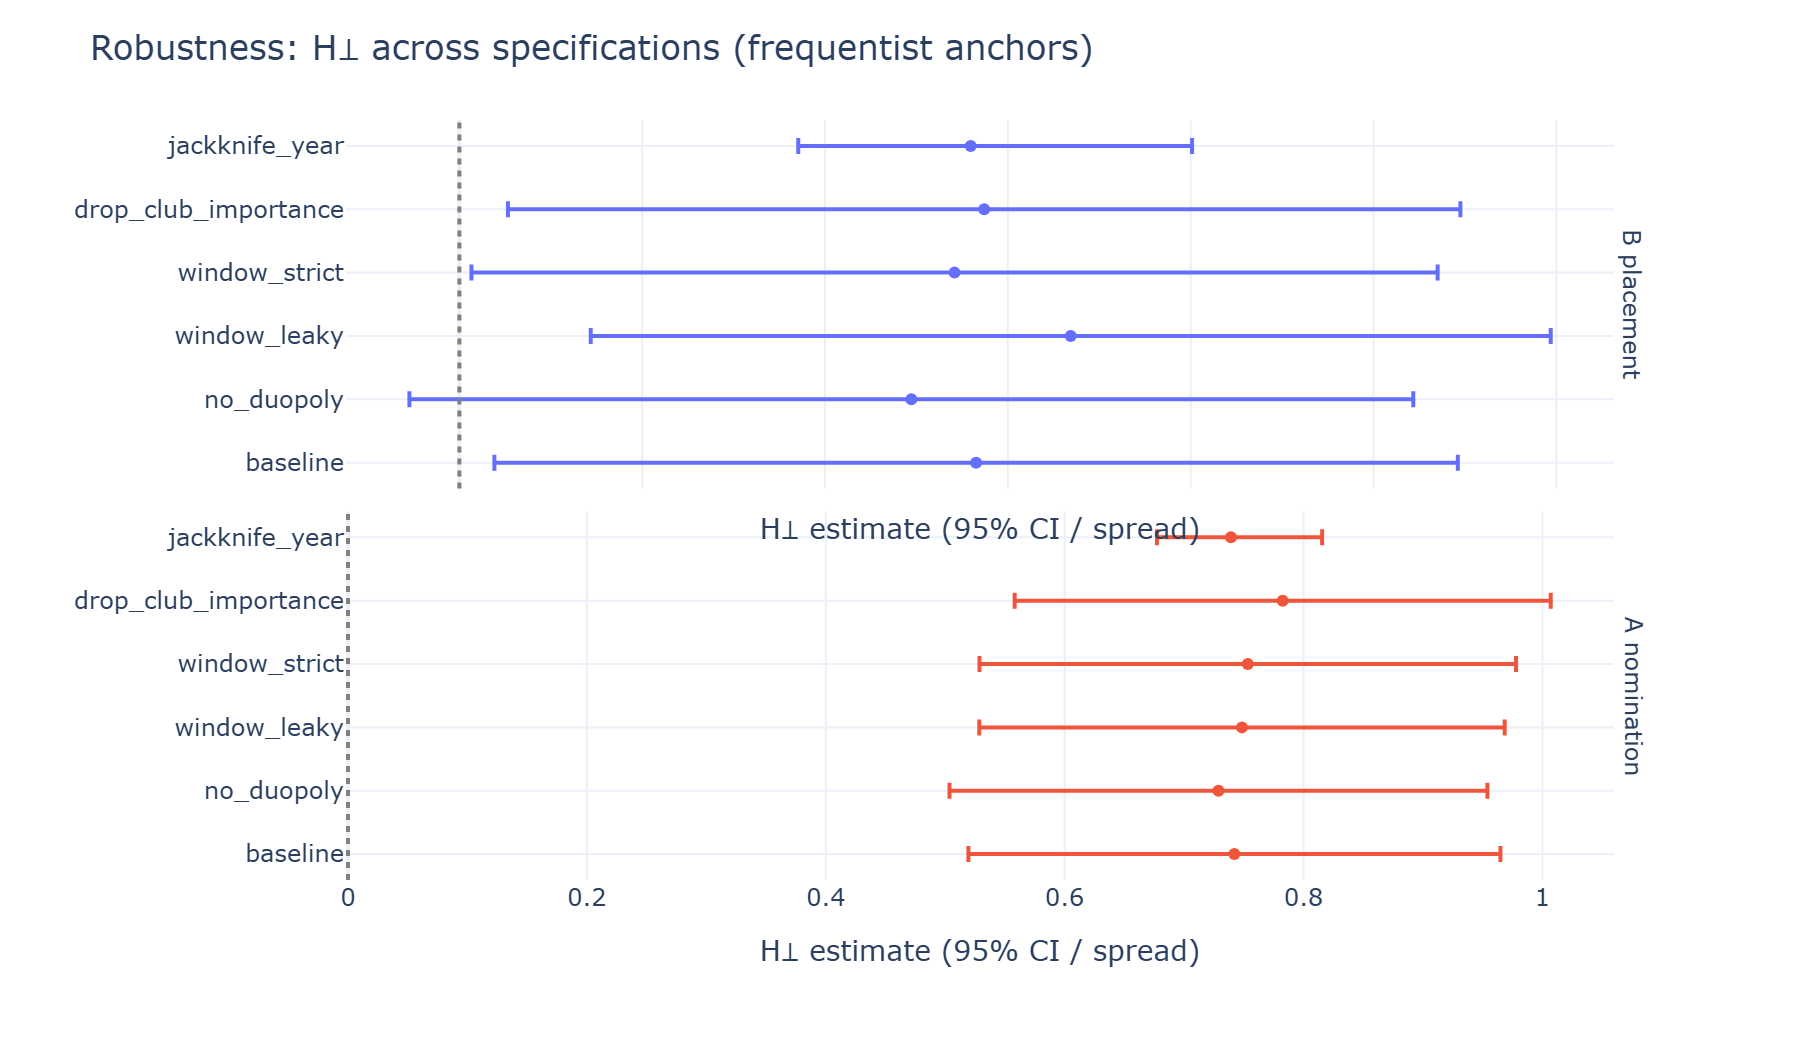
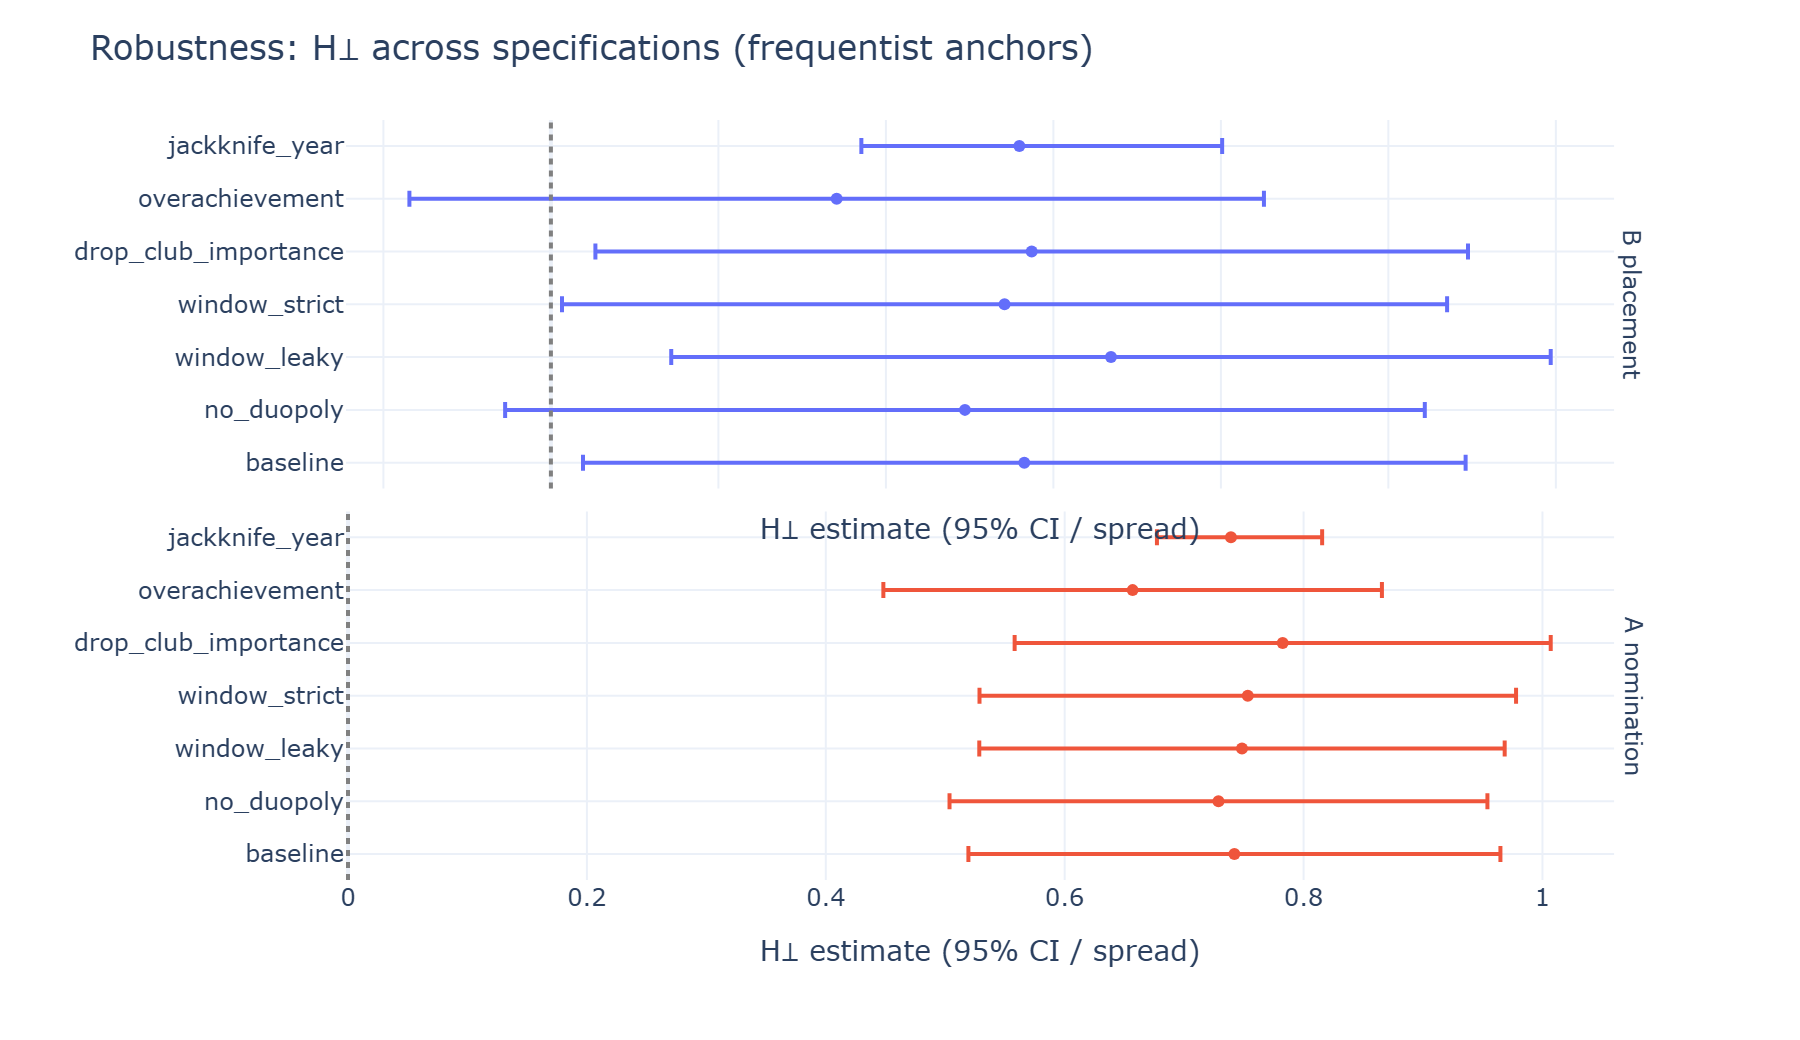
Tournament overachievement: a de-fame robustness control
Adds a control for how far a player's nation finished beyond its
pre-tournament seed (Croatia 2018, Morocco 2022, Algeria 2019 = +2;
favourites who won = 0). Tests whether the narrative residual is just
unmodelled surprise team success.

- New curated `expected` column in tournament_results.csv (FIFA
  ranking/seeding bucket). overachievement = max(0, result - expected).
  team_success._tournament_overachievement (pure, tested) + pool-wide in
  pool.build (158 players nonzero).
- Merged into hperp._candidate_frame 0-filled but NOT in _REGRESSORS:
  baseline H-perp / leaderboard / headline byte-identical (model_features
  delta = 0; headline still +0.696 / +0.145).
- New robustness._overachievement_hperp + `overachievement` panel/caterpillar
  spec; report.overachievement_case for the Modric delta.

Result: Gate A +0.742 -> +0.657 [+0.45,+0.87] (survives), Gate B +0.141 ->
+0.085 (fades, as expected for the fragile placement effect), Modric 2018
+1.357 -> +0.310 (most of the top residual was Croatia's run). Sensitivity
only - the curated pre-event seed is softer than the absolute results.

Surfaced in report (robustness + Modric case) + site (robustness para +
Modric verdict + caterpillar row); fixed a stale "breakout newcomers" line.
ruff + 110 tests green.

diff --git a/site/index.html b/site/index.html
@@ -46,7 +46,7 @@
 </script>
 
 <link rel="stylesheet" href="fonts/fonts.css" />
-<link rel="stylesheet" href="styles.css?v=20260624f" />
+<link rel="stylesheet" href="styles.css?v=20260625a" />
 </head>
 <body>
 <a class="skip-link" href="#main">Skip to content</a>
@@ -212,9 +212,10 @@
       <div>
         <p class="mono kicker gold">Robustness</p>
         <h2 class="display h2-sm" style="margin-bottom:22px">Does the result hold up?</h2>
-        <p class="prose-p">With seven years of data, a single model settles little, so the result was re-estimated dozens of ways — dropping Messi and Ronaldo, dropping breakout newcomers, leaving out each year in turn.</p>
+        <p class="prose-p">With seven years of data, a single model settles little, so the result was re-estimated dozens of ways — dropping Messi and Ronaldo, shifting the attention window, leaving out each year in turn.</p>
         <p class="prose-p">The <strong class="gold">getting-noticed</strong> effect stays in the same place across every cut. The <strong class="ink">finishing-higher</strong> effect is smaller and leans partly on the two superstars, so it is reported cautiously.</p>
         <p class="prose-p">It also holds once we account for <em class="ink">how central a player was to his club</em> — his share of the team's minutes and attacking output — so a midfield anchor like Rodri being indispensable is not what the Hype Score is mistaking for buzz.</p>
+        <p class="prose-p">It even holds once we account for <em class="ink">overachievement</em> — how far a player's nation finished beyond its pre-tournament odds. A fairy-tale run explains much of a single case (Croatia 2018 drove most of Modrić's gap), but across the field the getting-noticed effect stays clearly positive — the bias is not just unmodelled surprise.</p>
         <p class="prose-p">And it reproduces on a <em class="ink">different attention signal</em>: rebuilding the score from global news coverage (not Wikipedia) leaves the getting-noticed effect clearly positive — so the result is not an artifact of one data source.</p>
       </div>
       <div class="card2" id="robust-card" role="img" aria-label="The Hype Score effect re-estimated across many specifications: at the nomination gate the estimates cluster tightly, far from zero; at the placement gate they sit low and graze zero."></div>
@@ -260,7 +261,7 @@
 </div>
 
 <script src="vendor/d3.v7.min.js"></script>
-<script src="data.js?v=20260624f"></script>
-<script src="app.js?v=20260624f"></script>
+<script src="data.js?v=20260625a"></script>
+<script src="app.js?v=20260625a"></script>
 </body>
 </html>

diff --git a/site/app.js b/site/app.js
@@ -79,7 +79,7 @@
   // Only `year` and `verdict` are read (see VERDICT build below); the scoreboard's numbers
   // come from data.js (per_year). Keep these two keys in sync with that payload.
   const YEARS = [
-    { year: "2018", verdict: "The highest narrative residual of any winner in the sample — far more attention than his measured merit (20th in the field) explained, while Messi had the best season. Modrić played the deep-lying role the merit index reads least well, so part of that gap may be value the box score misses — an independent Opta rating places him above the field's median; even so, it is the case the usual complaint describes." },
+    { year: "2018", verdict: "The highest narrative residual of any winner in the sample — far more attention than his measured merit (20th in the field) explained, while Messi had the best season. Two things temper it: Modrić played the deep-lying role the merit index reads least well (an independent Opta rating places him above the field's median), and Croatia's improbable run to the final drove most of the rest — control for that overachievement and his gap shrinks dramatically. Even so, it is the case the usual complaint describes." },
     { year: "2019", verdict: "Little inflation this year: even the largest residual, Van Dijk's modest {HYPE}, sat well behind the field's best seasons, and Messi won among the very best on production." },
     { year: "2021", verdict: "Lewandowski had the best season in the field, a record-breaking scorer with almost no extra buzz, and finished second. The narrative outweighed the goals." },
     { year: "2022", verdict: "Benzema took the vote on a Champions League run, while Mbappé again out-produced everyone. A deserved win, helped by the European campaign." },
@@ -269,7 +269,8 @@
     const host = el("robust-card"); if (!host) return;
     const SPECS = [["baseline", "main model"], ["no_duopoly", "drop Messi & Ronaldo"],
       ["window_leaky", "window past ceremony"], ["window_strict", "window before ceremony"],
-      ["drop_club_importance", "ignore club importance"], ["jackknife_year", "leave a year out"]];
+      ["drop_club_importance", "ignore club importance"],
+      ["overachievement", "control for overachievement"], ["jackknife_year", "leave a year out"]];
     const by = {}; (D.robustness || []).forEach(r => { by[`${r.gate}|${r.spec}`] = r; });
     const pos = v => Math.min(100, Math.max(0, v) * POSX);  // 0-edge clamp + no track overflow
     const rows = (gate, col) => SPECS.map(([spec, lab]) => {

diff --git a/src/bdor/features/team_success.py b/src/bdor/features/team_success.py
@@ -78,9 +78,23 @@ def _tournament_result(
     return tourn.get((award_year, nation), 0)
 
 
+def _tournament_overachievement(
+    nation: str | None, award_year: int, overach: dict[tuple[int, str], int]
+) -> int:
+    """How far a nation's tournament finish beat its pre-tournament expectation (>=0).
+
+    `overach` maps (award_year, nation) -> max(0, result - expected), where `expected` is a curated
+    pre-tournament seed (FIFA ranking / consensus favourite, see tournament_results.csv). 0 when the
+    nation is unknown or didn't record a deep run. Croatia 2018 = +2; favourites who won = 0. Pure.
+    """
+    if nation is None:
+        return 0
+    return overach.get((award_year, nation), 0)
+
+
 # --- reference loaders ------------------------------------------------------
 
-def _load_references() -> tuple[dict, set, dict, dict]:
+def _load_references() -> tuple[dict, set, dict, dict, dict]:
     cl = pd.read_csv(REFERENCE_DIR / "cl_results.csv", dtype={"season": str})
     cl_lookup = {(r.season, r.club): int(r.cl_round) for r in cl.itertuples()}
 
@@ -91,10 +105,13 @@ def _load_references() -> tuple[dict, set, dict, dict]:
     tourn = (
         tour.groupby(["award_year", "nation"])["result"].max().to_dict()
     )  # max result if a nation features in multiple tournaments that year
+    # Overachievement = finish beyond the pre-tournament seed (>=0); 0 when on/below expectation.
+    tour["overach"] = (tour["result"] - tour["expected"]).clip(lower=0)
+    overach = tour.groupby(["award_year", "nation"])["overach"].max().to_dict()
 
     nat = pd.read_csv(REFERENCE_DIR / "player_nation.csv")
     nation = dict(zip(nat["player"], nat["nation"], strict=True))
-    return cl_lookup, champs, tourn, nation
+    return cl_lookup, champs, tourn, nation, overach
 
 
 # --- build ------------------------------------------------------------------
@@ -113,7 +130,7 @@ def _judged_season_clubs() -> dict[tuple[str, str], set[str]]:
 
 def _build_team_success() -> pd.DataFrame:
     aw = awards.pull()
-    cl_lookup, champs, tourn, nation = _load_references()
+    cl_lookup, champs, tourn, nation, overach = _load_references()
     us_clubs = _judged_season_clubs()
 
     rows: list[dict] = []
@@ -137,6 +154,9 @@ def _build_team_success() -> pd.DataFrame:
                 "won_cl": cl_round == 5,
                 "won_league": _won_league(clubs, seasons, champs),
                 "tournament_result": _tournament_result(nat, award_year, tourn),
+                "tournament_overachievement": _tournament_overachievement(
+                    nat, award_year, overach
+                ),
             }
         )
     return pd.DataFrame(rows).sort_values(["award_year", "player"]).reset_index(drop=True)

diff --git a/src/bdor/report.py b/src/bdor/report.py
@@ -167,6 +167,26 @@ def _prior_extent(t: pd.DataFrame) -> dict:
     return {"a": _g("A_nomination"), "b": _g("B_placement")}
 
 
+def overachievement_case(name: str = "Modri", year: int = 2018) -> dict | None:
+    """Baseline vs overachievement-controlled H⊥ for one case (the Modrić illustration).
+
+    Refits H⊥ adding the tournament-overachievement de-fame control and reports how far the player's
+    residual falls — the vivid version of "how much of the narrative was the improbable run itself."
+    """
+    from .features import hperp  # noqa: PLC0415
+    from .models import robustness  # noqa: PLC0415
+
+    def _h(df: pd.DataFrame) -> float | None:
+        r = df[df["player"].str.contains(name) & (df["award_year"] == year)]
+        return float(r["h_perp_pv"].iloc[0]) if len(r) else None
+
+    base = _h(hperp.build())
+    ctrl = _h(hperp.hperp_frame(regressors=robustness._OVERACH_REGRESSORS))
+    if base is None or ctrl is None:
+        return None
+    return {"baseline": base, "controlled": ctrl}
+
+
 def robustness_extras() -> dict:
     """Bootstrap + Heckman + strict-window rows, for the prose robustness notes."""
     p = load_panel()
@@ -189,6 +209,9 @@ def robustness_extras() -> dict:
         # drop_club_importance = H⊥ refit WITHOUT the v3 team-centrality control (baseline has it).
         "noclub_a": _get("A_nomination", "drop_club_importance"),
         "noclub_b": _get("B_placement", "drop_club_importance"),
+        # overachievement = H⊥ refit ADDING a control for finishing beyond the pre-tournament seed.
+        "overach_a": _get("A_nomination", "overachievement"),
+        "overach_b": _get("B_placement", "overachievement"),
         # proxy_gdelt = H⊥ rebuilt on GDELT news volume (independent of pageviews); finisher-fit.
         "gdelt_a": _get("A_nomination", "proxy_gdelt"),
         "gdelt_b": _get("B_placement", "proxy_gdelt"),
@@ -227,7 +250,7 @@ def fig_two_gate(stats: dict | None = None):
 # reported as prose robustness notes instead (see `robustness_extras`).
 _CATERPILLAR_SPECS = [
     "baseline", "no_duopoly",
-    "window_leaky", "window_strict", "drop_club_importance", "jackknife_year",
+    "window_leaky", "window_strict", "drop_club_importance", "overachievement", "jackknife_year",
 ]
 
 

diff --git a/src/bdor/models/robustness.py b/src/bdor/models/robustness.py
@@ -10,7 +10,9 @@ cell, and already shown to track the Bayesian posteriors (Stage B +0.192 Bayes v
 posteriors stay the headline; this shows the point estimate is stable.
 
 Specs (per gate): baseline · no_duopoly · window_leaky · window_strict · drop_club_importance ·
-jackknife_year · (proxy_gdelt, when the GDELT pull has completed).
+overachievement · jackknife_year · (proxy_gdelt, when the GDELT pull has completed).
+`overachievement` refits H⊥ with an added control for a nation finishing beyond its pre-tournament
+seed (Croatia 2018) — testing whether the residual is just unmodelled surprise team success.
 `window_leaky` recomputes H⊥ with the hype window stretched to the ceremony date (the leakage we
 designed against) — H⊥ should INFLATE, demonstrating that the shortlist cut matters.
 `drop_club_importance` refits H⊥ without the v3 team-centrality control, showing the effect is
@@ -102,6 +104,23 @@ def _drop_club_importance_hperp() -> pd.DataFrame:
     neither manufactures nor erases the result.
     """
     return hperp.hperp_frame(regressors=_PRE_V3_REGRESSORS)
+
+
+# --- tournament-overachievement control (de-fame sensitivity) ---------------
+
+_OVERACH_REGRESSORS = [*hperp._REGRESSORS, "tournament_overachievement"]
+
+
+def _overachievement_hperp() -> pd.DataFrame:
+    """Refit H⊥ ADDING a tournament-overachievement control (not in the baseline regressor set).
+
+    Asks: is the narrative residual just unmodelled *surprise* team success? A nation finishing
+    beyond its pre-tournament seed (Croatia 2018) draws huge attention the absolute team-success
+    terms miss. De-faming against it tests whether H⊥ survives; if so, the effect isn't merely
+    overachievement. The control is finisher-light (0 for the many pool members with no deep run),
+    so Gate A should barely move, while contested tournament cases (Modrić) shrink.
+    """
+    return hperp.hperp_frame(regressors=_OVERACH_REGRESSORS)
 
 
 # --- one cell = the H⊥ coefficient from a frequentist fit -------------------
@@ -313,6 +332,7 @@ def _build_panel() -> pd.DataFrame:
     leaky = _leaky_hperp()
     strict = _strict_hperp()
     no_ci = _drop_club_importance_hperp()
+    overach = _overachievement_hperp()
 
     # NB: a `drop_low_baseline` spec was removed — `pv_low_baseline` (baseline NaN or < threshold)
     # is False for every row in the candidate/finisher pools (all high-fame players), so the filter
@@ -323,6 +343,7 @@ def _build_panel() -> pd.DataFrame:
         "window_leaky": placement._prep(_model_features_from_hp(leaky)),
         "window_strict": placement._prep(_model_features_from_hp(strict)),
         "drop_club_importance": placement._prep(_model_features_from_hp(no_ci)),
+        "overachievement": placement._prep(_model_features_from_hp(overach)),
     }
     a_specs = {
         "baseline": ap,
@@ -330,6 +351,7 @@ def _build_panel() -> pd.DataFrame:
         "window_leaky": nomination._prep_hperp(hperp_df=leaky),
         "window_strict": nomination._prep_hperp(hperp_df=strict),
         "drop_club_importance": nomination._prep_hperp(hperp_df=no_ci),
+        "overachievement": nomination._prep_hperp(hperp_df=overach),
     }
 
     # Second attention proxy (GDELT news volume) — only if the pull has completed (else skipped,

diff --git a/src/bdor/features/pool.py b/src/bdor/features/pool.py
@@ -37,7 +37,8 @@ _FEATURE_COLS = [
     "player", "award_year", "position_family",
     "in_production", "in_team_success", "in_tournament",
     "merit_z", "merit_pc1", "merit_pc2", "minutes",
-    "cl_round", "won_cl", "won_league", "nation", "tournament_result", "nominated",
+    "cl_round", "won_cl", "won_league", "nation", "tournament_result",
+    "tournament_overachievement", "nominated",
 ]
 
 
@@ -133,7 +134,7 @@ def _us_award_year(us: pd.DataFrame) -> pd.DataFrame:
 
 def _qualifying_club_seasons() -> set[tuple[str, str]]:
     """(season_code, reference-club) that reached a CL semifinal or won a domestic league."""
-    cl_lookup, champs, _tourn, _nation = team_success._load_references()
+    cl_lookup, champs, _tourn, _nation, _overach = team_success._load_references()
     cl_sf = {key for key, rnd in cl_lookup.items() if rnd >= 3}
     return cl_sf | set(champs)
 
@@ -181,7 +182,7 @@ def _build_pool() -> pd.DataFrame:
     pool = pool.merge(usa.drop(columns=["player"]), on=["player_key", "award_year"], how="left")
 
     # Club-based team-success for EVERY member (team_success.build() is finisher-only).
-    cl_lookup, champs, tourn, _nation = team_success._load_references()
+    cl_lookup, champs, tourn, _nation, overach = team_success._load_references()
 
     def _club_success(row: pd.Series) -> pd.Series:
         seasons = team_success._season_codes(int(row["award_year"]))
@@ -209,6 +210,12 @@ def _build_pool() -> pd.DataFrame:
     pool["nation"] = pool["player_key"].map(nat)
     pool["tournament_result"] = [
         team_success._tournament_result(n if isinstance(n, str) else None, int(ay), tourn)
+        for n, ay in zip(pool["nation"], pool["award_year"], strict=True)
+    ]
+    # Overachievement vs pre-tournament seed (de-fame robustness control; 0 if no/par run).
+    pool["tournament_overachievement"] = [
+        team_success._tournament_overachievement(
+            n if isinstance(n, str) else None, int(ay), overach)
         for n, ay in zip(pool["nation"], pool["award_year"], strict=True)
     ]
 

diff --git a/tests/test_team_success.py b/tests/test_team_success.py
@@ -6,6 +6,7 @@ from bdor.features.team_success import (
     _club_cl_round,
     _norm_clubs,
     _season_codes,
+    _tournament_overachievement,
     _tournament_result,
     _won_league,
 )
@@ -44,3 +45,13 @@ def test_tournament_result_lookup_and_default():
     assert _tournament_result("Croatia", 2018, tourn) == 4
     assert _tournament_result("Brazil", 2018, tourn) == 0     # didn't feature
     assert _tournament_result(None, 2018, tourn) == 0
+
+
+def test_tournament_overachievement_lookup_and_default():
+    # max(0, result - expected): Croatia 2018 overachieved (final from outside the contenders);
+    # France (favourite that won) is on par -> 0; unknown / no-run -> 0.
+    overach = {(2018, "Croatia"): 2, (2018, "France"): 0}
+    assert _tournament_overachievement("Croatia", 2018, overach) == 2
+    assert _tournament_overachievement("France", 2018, overach) == 0   # on par with expectation
+    assert _tournament_overachievement("Brazil", 2018, overach) == 0   # no recorded run
+    assert _tournament_overachievement(None, 2018, overach) == 0

diff --git a/src/bdor/features/hperp.py b/src/bdor/features/hperp.py
@@ -113,7 +113,15 @@ def _candidate_frame(
         club_importance.build()[["player_key", "award_year", "minutes_share", "xg_share"]],
         on=["player_key", "award_year"], how="left",
     )
-    for c in ("minutes_share", "xg_share"):  # 0 = unmeasured (non-top-5), like the merit dims
+    # tournament_overachievement: pool-wide (pool.build derives nation for every member); a de-fame
+    # ROBUSTNESS control only — not in _REGRESSORS, so baseline H⊥ is untouched. 0 = no/par run.
+    base = base.merge(
+        pl[["player_key", "award_year", "tournament_overachievement"]].drop_duplicates(
+            ["player_key", "award_year"]
+        ),
+        on=["player_key", "award_year"], how="left",
+    )
+    for c in ("minutes_share", "xg_share", "tournament_overachievement"):  # 0 = unmeasured
         base[c] = base[c].astype(float).fillna(0.0)
     return base.merge(att.drop(columns=["player"]), on=["player_key", "award_year"], how="inner")
 

diff --git a/docs/decisions-log.md b/docs/decisions-log.md
@@ -672,3 +672,29 @@ co-headline bar (would overstate agreement), so I kept it as a **strengthened po
 the report + site robustness/caveat sections, with the attenuation stated honestly. Pageviews stay the
 primary. Spot-check: GDELT↔pageview Spearman 0.62 (0.58 pool-only), top pool-only players all real —
 disambiguation sound. **No headline change** (pageview baseline Gate A +0.742 / B +0.141 untouched).
+
+### Tournament overachievement as a de-fame robustness control (2026-06-25)
+User asked whether to "weigh" tournaments / reward overachievement (Croatia 2018 carrying to a final as
+non-favourites; Leverkusen-type invincible runs). Chose (with the user): **tournaments only**, as a
+**robustness control**, not baseline and not merit-credit (a team result can't be attributed to one
+player). Implementation mirrors club-importance v3 / `drop_club_importance`:
+- New curated `expected` column in `data/reference/tournament_results.csv` (pre-tournament FIFA
+  ranking/seeding bucket: top favourite 5 … minnow 1). `team_success._load_references` builds an
+  overachievement lookup = max(0, result − expected); `_tournament_overachievement` helper (pure,
+  tested). `pool.build()` computes it pool-wide (nation already known pool-wide via StatsBomb squads);
+  added to `_FEATURE_COLS`.
+- `hperp._candidate_frame` merges `tournament_overachievement` (0-filled), but it is **NOT** in
+  `_REGRESSORS` — baseline H⊥ untouched (verified: model_features Δ = 0). `robustness._overachievement_
+  hperp()` refits with `_REGRESSORS + ["tournament_overachievement"]`; new `overachievement` panel spec
+  (Gate A + B) and caterpillar row; `report.overachievement_case()` exposes the Modrić baseline-vs-
+  controlled delta for the case study.
+- **Result:** Gate A +0.742→+0.657 (survives), Gate B +0.141→+0.085 (fades, as expected for the fragile
+  placement effect), Modrić 2018 +1.357→+0.310. Surfaced in report (robustness sentence + Modrić case)
+  and site (robustness paragraph + Modrić verdict + caterpillar row). Also fixed a stale site sentence
+  ("dropping breakout newcomers" → "shifting the attention window") left from the drop_low_baseline
+  removal.
+**Why sensitivity-only (not baseline):** `expected` is a curated pre-event seed — reproducible from FIFA
+rankings but softer/more subjective than the absolute results, and asymmetric (only positive
+overachievement among deep-run nations). Folding it into the baseline would risk defining away the very
+narrative the study measures. As a stress test it answers the sharp question — "is the nomination bias
+just unmodelled surprise success?" — and the answer is no.

diff --git a/docs/findings.md b/docs/findings.md
@@ -399,3 +399,24 @@ pool-wide GDELT as a **strengthened independent replication** — NOT a co-headl
 too much (+0.32 vs +0.74) to bill them as interchangeable; promoting a noisier half-size signal to
 co-equal primary would overstate agreement. The honest claim is direction + significance on an
 independent source, which holds. (The 1 TB free tier was never the constraint — we used 0.066 TB.)
+
+### Tournament overachievement: the nomination effect survives it; Modrić is mostly the run (2026-06-25)
+Added a de-fame **robustness control** for *tournament overachievement* — how far a player's nation
+finished beyond its pre-tournament seed (curated `expected` in tournament_results.csv from FIFA
+ranking/seeding; overachievement = max(0, result − expected); Croatia 2018 = +2, Morocco 2022 = +2,
+Algeria 2019 = +2, favourites who won = 0). 158 pool players carry a nonzero value. It is **not** a
+baseline regressor — baseline H⊥ / leaderboard / headline are byte-identical (model_features Δ = 0).
+**Refitting H⊥ with the control added:**
+- **Gate A (nomination): +0.742 → +0.657** [+0.45, +0.87], n=955 — drops ~11% but stays clearly
+  positive and significant. The "narrative gets you noticed" effect is **not** just unmodelled surprise
+  team success.
+- **Gate B (placement): +0.141 → +0.085** [−0.04, +0.21], n=188 — the already-small, already-fragile
+  placement effect fades to non-significant. Consistent with the standing "Gate B is real but modest,
+  state cautiously" caveat.
+- **Modrić 2018 (the vivid case): H⊥ +1.357 → +0.310.** Most of the single highest narrative residual in
+  the dataset *was* Croatia's improbable run beyond their seed — attention any unfancied finalist draws —
+  not pure voter narrative. Sharpens (doesn't overturn) the Modrić reading: role blind-spot + Opta
+  rescue + overachievement together explain the bulk of his gap.
+**Caveat:** the expectation is a curated pre-tournament seed (softer than the absolute results), and the
+signal is asymmetric (captures positive overachievement among deep-run nations, not favourites who
+flopped) — hence a sensitivity check, never the baseline. The headline holds against it where it counts.

diff --git a/CLAUDE.md b/CLAUDE.md
@@ -177,6 +177,19 @@ replication*, NOT a co-headline** (the user's "co-headline if 1 TB room" gate wa
 1 TB never bound; the +0.32-vs-+0.74 magnitude gap does). Disambiguation sound (GDELT↔pageview Spearman
 0.62; top pool-only players all real). Report + site GDELT/caveat prose reframed to pool-wide; docstrings
 de-finisher'd. **Headline frozen** (pageviews +0.696/+0.145). ruff + tests green; `?v=20260624f`.
+**TOURNAMENT OVERACHIEVEMENT control DONE (2026-06-25)** — added a de-fame **robustness control** for
+how far a player's nation finished beyond its pre-tournament seed (curated `expected` in
+`tournament_results.csv` from FIFA ranking/seeding; overachievement = max(0, result−expected): Croatia
+2018 +2, Morocco 2022 +2, Algeria 2019 +2, favourites who won 0). `team_success._tournament_
+overachievement` (pure, tested) + pool-wide in `pool.build()` (158 players nonzero); merged into
+`hperp._candidate_frame` 0-filled but **NOT** in `_REGRESSORS` (baseline frozen — model_features Δ=0).
+New `robustness._overachievement_hperp()` + `overachievement` panel/caterpillar spec;
+`report.overachievement_case()` for the Modrić delta. **Result:** Gate A **+0.742→+0.657** [+0.45,+0.87]
+(survives — nomination bias isn't just surprise success), Gate B **+0.141→+0.085** (fades, as expected
+for the fragile placement effect), **Modrić 2018 +1.357→+0.310** (most of the top residual *was*
+Croatia's run). Sensitivity-only (curated pre-event seed is softer than absolute results; asymmetric).
+Surfaced in report (robustness + Modrić case) + site (robustness para + Modrić verdict + caterpillar);
+fixed a stale site "breakout newcomers" line. ruff + 110 tests green; `?v=20260625a`.
 **Next/optional:** nothing outstanding.
 
 ## Where the canon lives